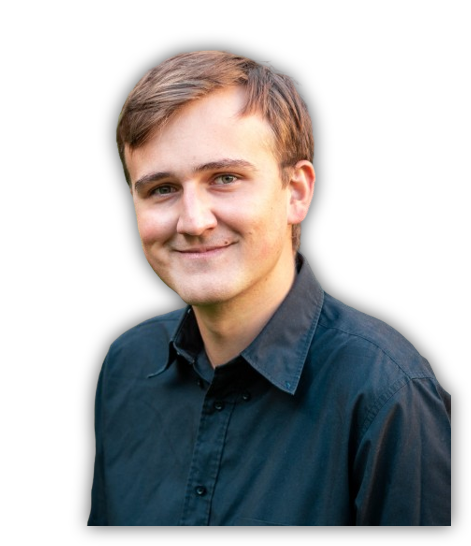
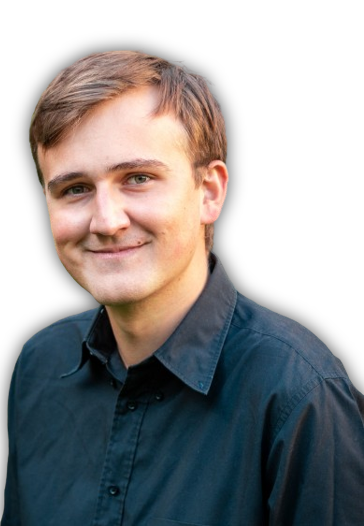
Mise en service du 09/08/2024-17:20:17

diff --git a/js/code_snippet.js b/js/code_snippet.js
@@ -1,3 +1,50 @@
+// prépare une chaine à être utilisé dans une balise via innerHTML
+function escapeHTML(text) {
+    return text.replace(/&/g, '&amp;')
+               .replace(/</g, '&lt;')
+               .replace(/>/g, '&gt;')
+               .replace(/"/g, '&quot;')
+               .replace(/'/g, '&#039;');
+}
+
+
+// ne remplace que les truc quil voit en dehors des quotes
+function replaceOutsideQuotes(text, target, replacement) {
+    // Expression régulière pour trouver les parties entre guillemets
+    const quotedRegex = /"[^"]*"/g;
+    const unquotedTextParts = [];
+    let lastIndex = 0;
+    
+    // Trouver et isoler les parties entre guillemets
+    text.replace(quotedRegex, (match, offset) => {
+        // Ajouter le texte non cité avant cette occurrence
+        if (offset > lastIndex) {
+            unquotedTextParts.push(text.substring(lastIndex, offset));
+        }
+        // Ajouter le texte entre guillemets sans modification
+        unquotedTextParts.push(match);
+        lastIndex = offset + match.length;
+    });
+
+    // Ajouter le reste du texte après la dernière citation
+    if (lastIndex < text.length) {
+        unquotedTextParts.push(text.substring(lastIndex));
+    }
+    
+    // Remplacer les occurrences de target dans les parties non citées
+    return unquotedTextParts.map(part => {
+        // Conserver les parties entre guillemets inchangées
+        return part.startsWith('"') && part.endsWith('"') ? part : part.replace(new RegExp(target, 'g'), replacement);
+    }).join('');
+}
+
+
+function colorTocken(text, regex, color_str){
+    text.replace(regex, "<span style='color:'" + color_str + ">"+regex+"</span>");
+
+}
+
+
 document.addEventListener('DOMContentLoaded', () => {
 
     ///////////////////////////////////////////
@@ -16,18 +63,23 @@ document.addEventListener('DOMContentLoaded', () => {
         })
         .then(textContent => {
             // Diviser le texte en lignes
-            const linesArray = textContent.split("\\r?\\n"); 
+            const linesArray = textContent.split(/\r?\n/); 
+            console.log("elem 0 : "+ linesArray[0]);
+
+            for (let i = 0; i<linesArray.length; i++){
+                linesArray[i] = replaceOutsideQuotes(linesArray[i], "main", "HELLO MY DEAR");
+                
+                linesArray[i] = escapeHTML(linesArray[i]);
+                linesArray[i].replace(/\t/g, "&emsp;"); 
+                colorTocken(linesArray[i], "#include", "#FF00FF");
+            }
             
-
-            linesArray.forEach(line => ()=>{
-                line.replace("if", "CONDITION");
-            });
-
             // Afficher les lignes dans un élément HTML
             const fileContentElement = document.getElementById('code_snippet');
 
 
-            fileContentElement.textContent = linesArray.join("<br/>"); // Joindre les lignes avec des retours à la ligne
+            
+            fileContentElement.innerHTML = linesArray.join("<br>"); // Joindre les lignes avec des retours à la ligne
 
             // Optionnel : Afficher le tableau des lignes dans la console
             console.log(linesArray);

diff --git a/css/style.css b/css/style.css
@@ -1,4 +1,4 @@
-
+ 
 @font-face {
     font-family: "Pacifico";
     src: url("../font/Pacifico.ttf") format("truetype");
@@ -11,13 +11,16 @@
 }
 
 
+
+
+
 html, body {  
     user-select: none;
     margin: 0;
     height: fit-content;
-
-    background-color: aliceblue;
+ 
     background-color: black; /* Couleur de fond pour éviter le blanc */
+    
   }
 
 body {
@@ -89,7 +92,7 @@ section{
     flex-direction: row; 
     align-items: center; /* Centre verticalement */
     
-    font-size: 2em;
+    /*font-size: 2em; */
     
     
     margin: 0;
@@ -133,32 +136,34 @@ section{
     
     display: flex;
     position: relative;
-    border: solid yellow;
+    /* border: solid yellow; */
     
     left: 0;
 }
 
 #userpict_main{
-    /* border : 1px solid pink; */
+    /* border : solid pink; */
     display: flex;
     flex-direction: row;
+    align-items: center;
+    text-align: center;
     
-    position: absolute;
-    right: 0; 
+    width: 75vw;
+    height: 100vh;
 }
-#userpict_large {
-    
-    background: url("../img/full_transp.png") no-repeat;
-    
-    background-size: 100vh;
-    
-    height: 100vh;  
-    width: 90vh;
-      
-    /* border : solid green; */
-    
-}  
 
+#userpict_large {
+    background: url("../img/full_transp.png") no-repeat;
+    background-size: 25vw auto; /* Redimensionner l'image en fonction de la hauteur */
+    background-position: bottom right; /* Positionner l'image en bas à droite */
+    
+    height: 100vh; /* La hauteur est fixée à 100% de la hauteur de la fenêtre */
+    width: 25vw; /* La largeur s'adapte à celle de l'image après le redimensionnement */
+    position: absolute;
+    right: 0;
+    
+    /* border: solid green; */
+}
 
 
 
@@ -262,47 +267,44 @@ section{
 
 #userpict_textArrow { 
     display: flex;
-    /* border: solid red; */
+    flex-flow: row;
     
-    height: fit-content;
-    margin-top: 20vh;
+    width: 75vw;
     
-    position: relative;
-    translate: 10%;
+    
+    position: absolute;
+    
+   
+    /* border: solid red;  */
+    text-align: center;
 } 
 
 #userpict_text { 
-    /* border: solid 1px green; */
-    justify-self: center;
+    /* border: solid green; */
+    
     
     display: flex;
     flex-direction: row;
  
     align-items: center; /* Centre verticalement */
+   
     
-    height: fit-content;
-    
-    white-space: nowrap; /* Empêche les éléments de se casser en plusieurs lignes */
-    
+     white-space: nowrap; /* Empêche les éléments de se casser en plusieurs lignes */
+    margin-left: 10vw;
      gap: 20px;
-    
-    /* border: solid red; */
+     
 } 
-
 
 #userpict_arrow { 
-       
-    scale: 100%;
-    translate: 10px 20px;
-    rotate: 180deg;
-    transform: scaleX(-1);
+  align-self: flex-end;
+  scale: 200%;
     
- 
-    width: 30%;
-    height: 50%;
-    
+  rotate: 50deg;
+  transform: scaleY(1) scaleX(0.5);
+  position: relative;
+  right: -3vw;
+  top: 5vh;
 } 
-
 
 #userpict_slider{
     /* border: solid 1px red; */

diff --git a/index.html b/index.html
@@ -3,11 +3,13 @@
 <head>
     <meta charset="UTF-8">
     <meta name="viewport" content="width=device-width, initial-scale=1.0">
+    <link id="favicon" rel="icon" href="/img/favicons/favicon_light.png" type="image/png">
     <title>Arnaud Sénécaut</title>
     <script src="js/main.js"></script>
     <script src="js/code_snippet.js"></script>
-    <link href="css/style.css" rel="stylesheet"/>
 
+    <link href="css/style.css" rel="stylesheet"/> 
+    <link rel="stylesheet" href="css/mobile.css" media="screen and (max-width: 600px)">
 </head>
 <body >
     <div class="banner"> 
@@ -53,7 +55,7 @@
                                 le Théâtre
                             </div>
                             <div  class="slider_mid">
-                                l'écriture
+                                l'Écriture
                             </div>
                         </div>
                     </div>
@@ -82,9 +84,9 @@
             <a>Scientifique interdisciplinaire, je suis passionné par la biologie, la chimie et l'informatique.</a>
         </section>
         <section id="sec_Informatique">
-            <pre id="code_snippet">
+            <p id="code_snippet">
                 vide
-            </pre>
+            </p>
         </section>
 
         <section id="sec_CV"></section>

diff --git a/css/mobile.css b/css/mobile.css
@@ -1,0 +1,100 @@
+
+section{
+     
+    font-size: 1em;
+     
+    background: red;
+}
+
+
+.menu{
+   
+    left: 10px;
+    top : 20px;
+   
+    
+    margin-right: 20px;
+    
+    font-size: 0.5em;
+}
+
+.menuItem{
+    
+    padding: 10px; 
+   
+}
+
+
+#userpict_main{ 
+    display: flex;
+    flex-direction: column;
+  
+    position: absolute; 
+    
+     align-items: center;
+    text-align: center;
+    width: 100vw;
+    height: 100vh;
+}
+
+
+#userpict_large{ 
+  width: 100vw;
+  background-position: bottom right; /* Positionner l'image en bas à droite */
+  
+  background-size: 50vw auto;
+  
+  transform: scaleX(-1);
+  
+}
+
+#sec_Informatique > #code_snippet{ 
+    font-size : 0.35em;
+    margin-left: 15px; 
+}
+
+
+
+
+#userpict_textArrow { 
+  /* border: solid red; */
+    
+  margin-top: 15vh;
+   
+  
+  display: flex;
+  flex-flow: column;
+
+  height: fit-content;
+  
+  align-items: center;
+} 
+
+#userpict_text { 
+    /* border: solid green;  */
+    
+    display: flex;
+    flex-direction: row;
+
+     
+     margin-left: 0vw;
+     gap: 10px;
+     
+} 
+
+
+#userpict_arrow { 
+  align-self: flex-end;
+    scale: 150%;
+    translate: -5vh 15vh;
+    rotate: 90deg;
+    transform: scaleY(-1) scaleX(1);
+  position: relative;
+} 
+
+
+#userpict_slider{
+  
+}
+
+

diff --git a/js/main.js b/js/main.js
@@ -1,3 +1,19 @@
+function isDarkMode(){
+    return window.matchMedia('(prefers-color-scheme: dark)').matches;
+}
+
+// pour mettre à jour le favicon en fonction du theme
+function updateFavicon() {
+    const favicon = document.getElementById('favicon');
+    const darkMode = isDarkMode();
+    favicon.href = darkMode ? '/img/favicons/favicon_dark.png' : '/img/favicons/favicon_light.png';
+}
+
+document.addEventListener('DOMContentLoaded', updateFavicon);
+window.matchMedia('(prefers-color-scheme: dark)').addEventListener('change', updateFavicon);
+
+
+
 // Sélectionner toutes les balises Test
 let nodeCopyright = document.getElementsByClassName('copyright'); 
 
